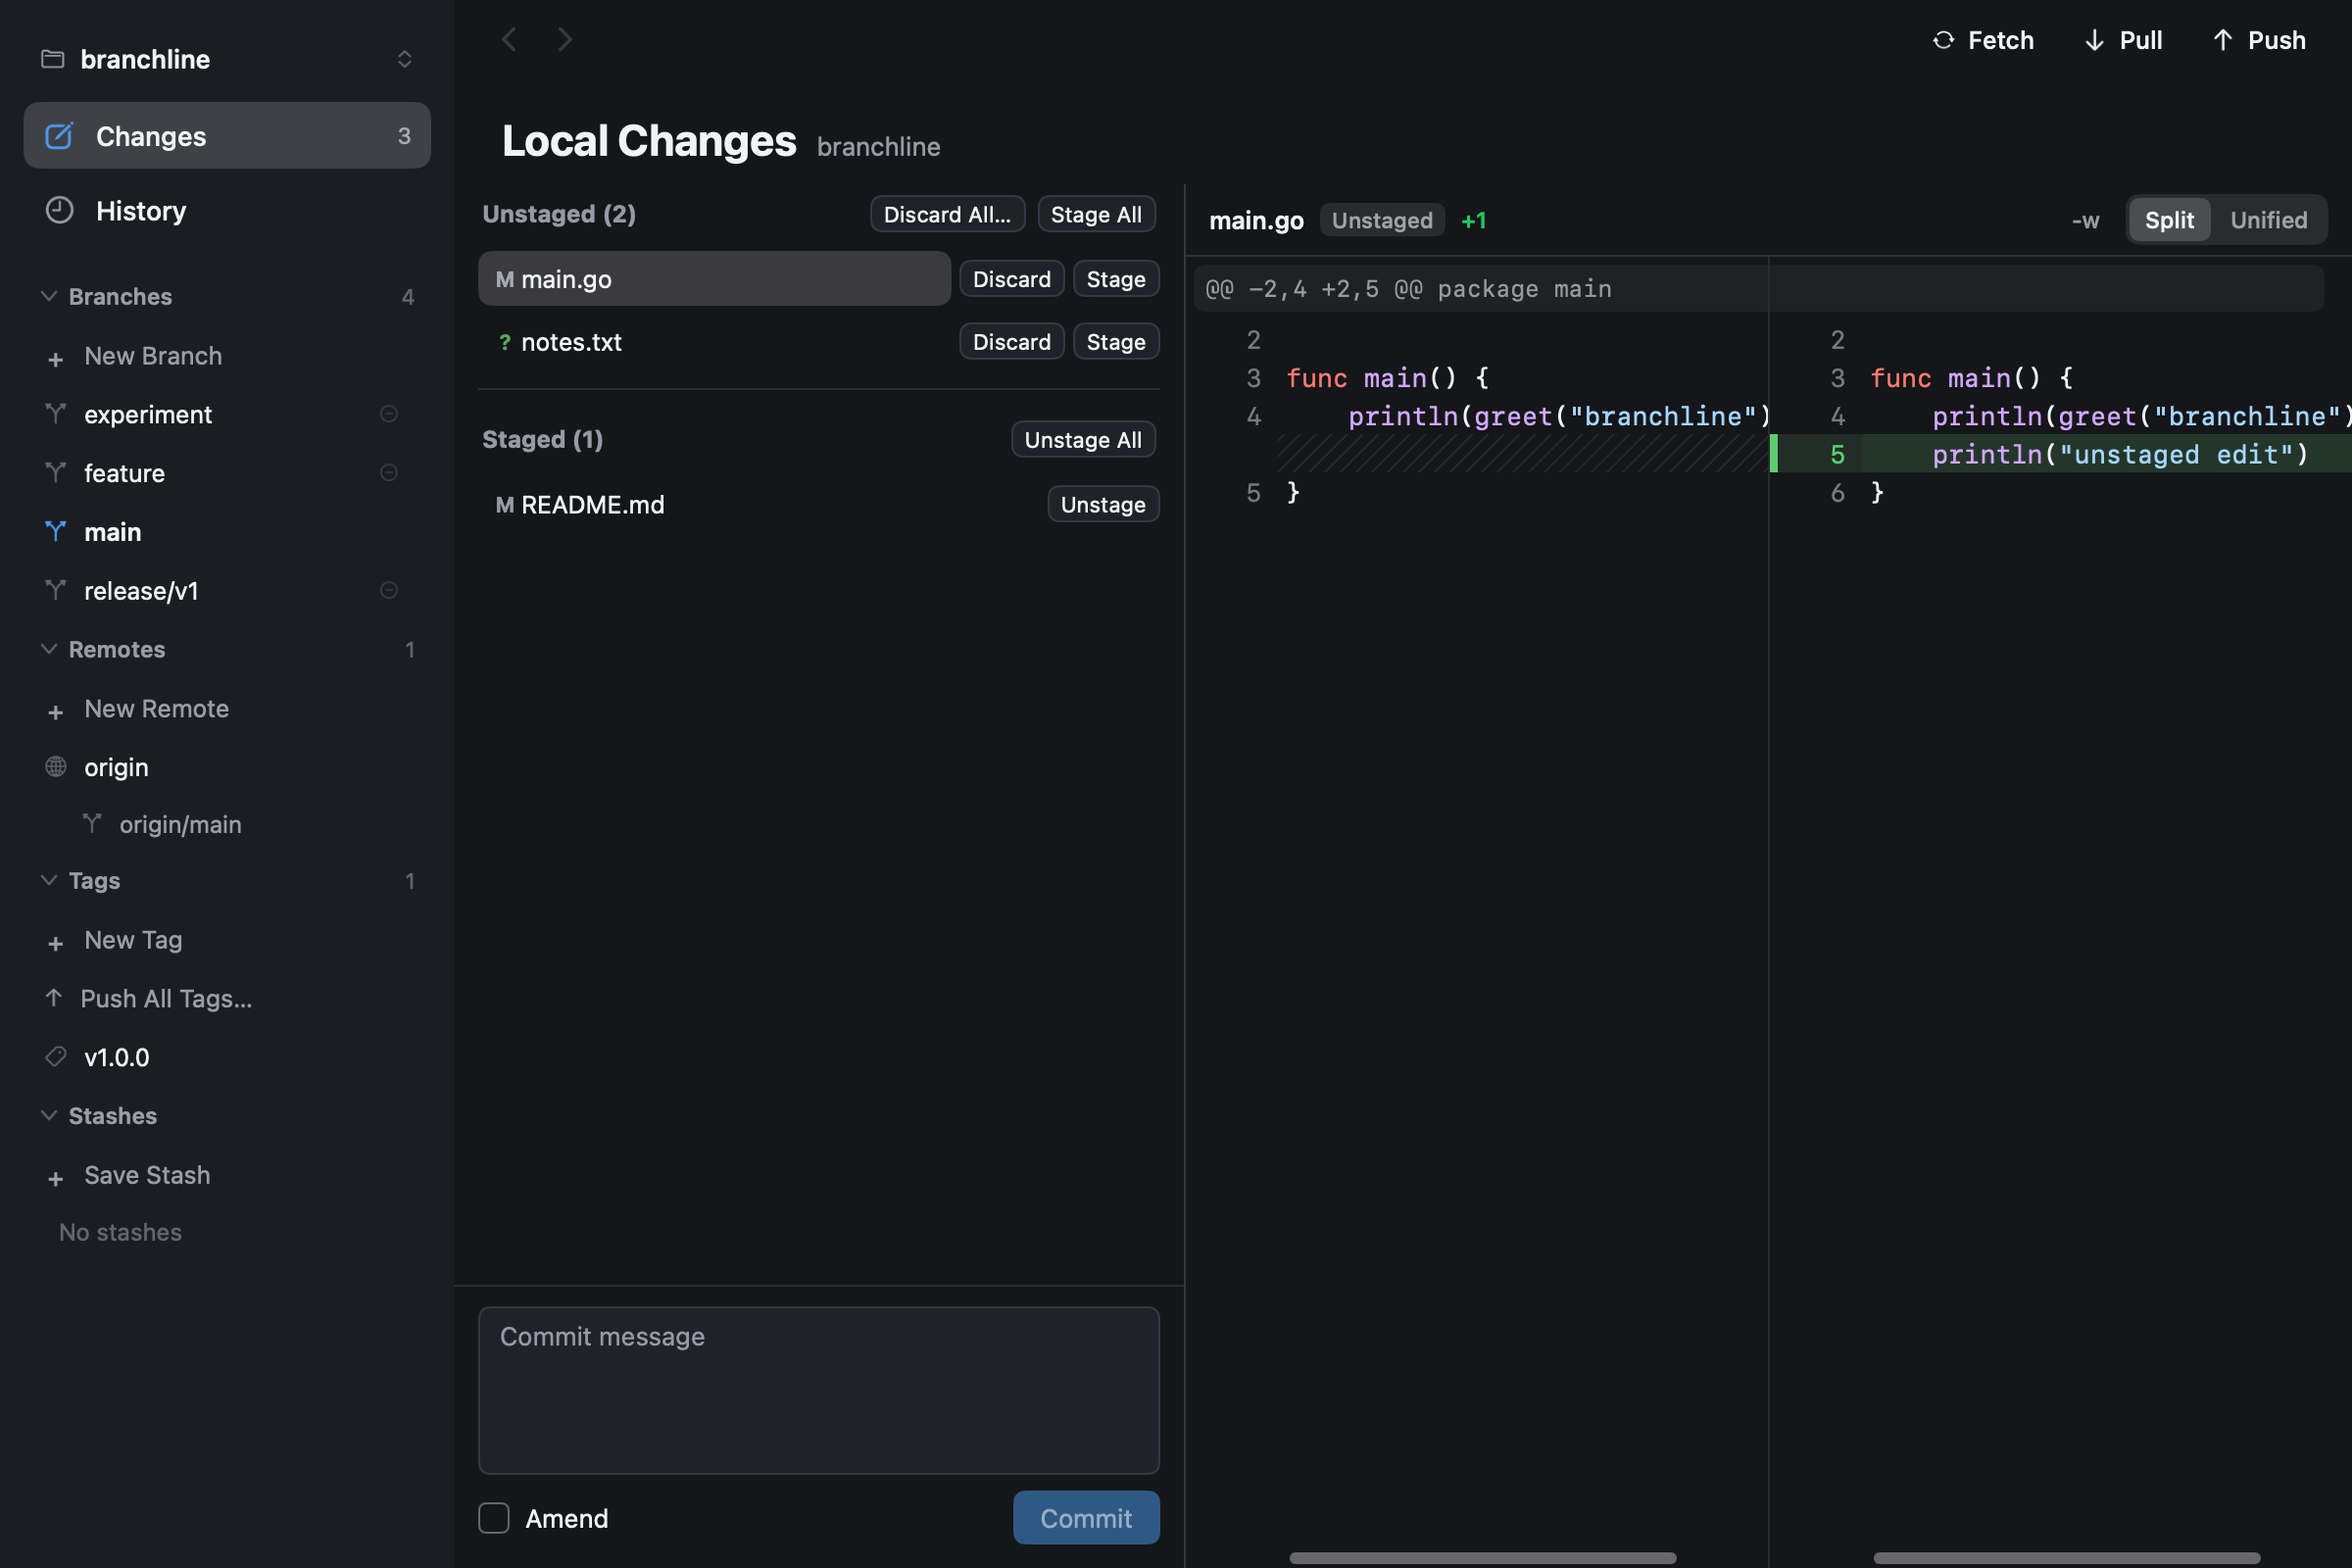
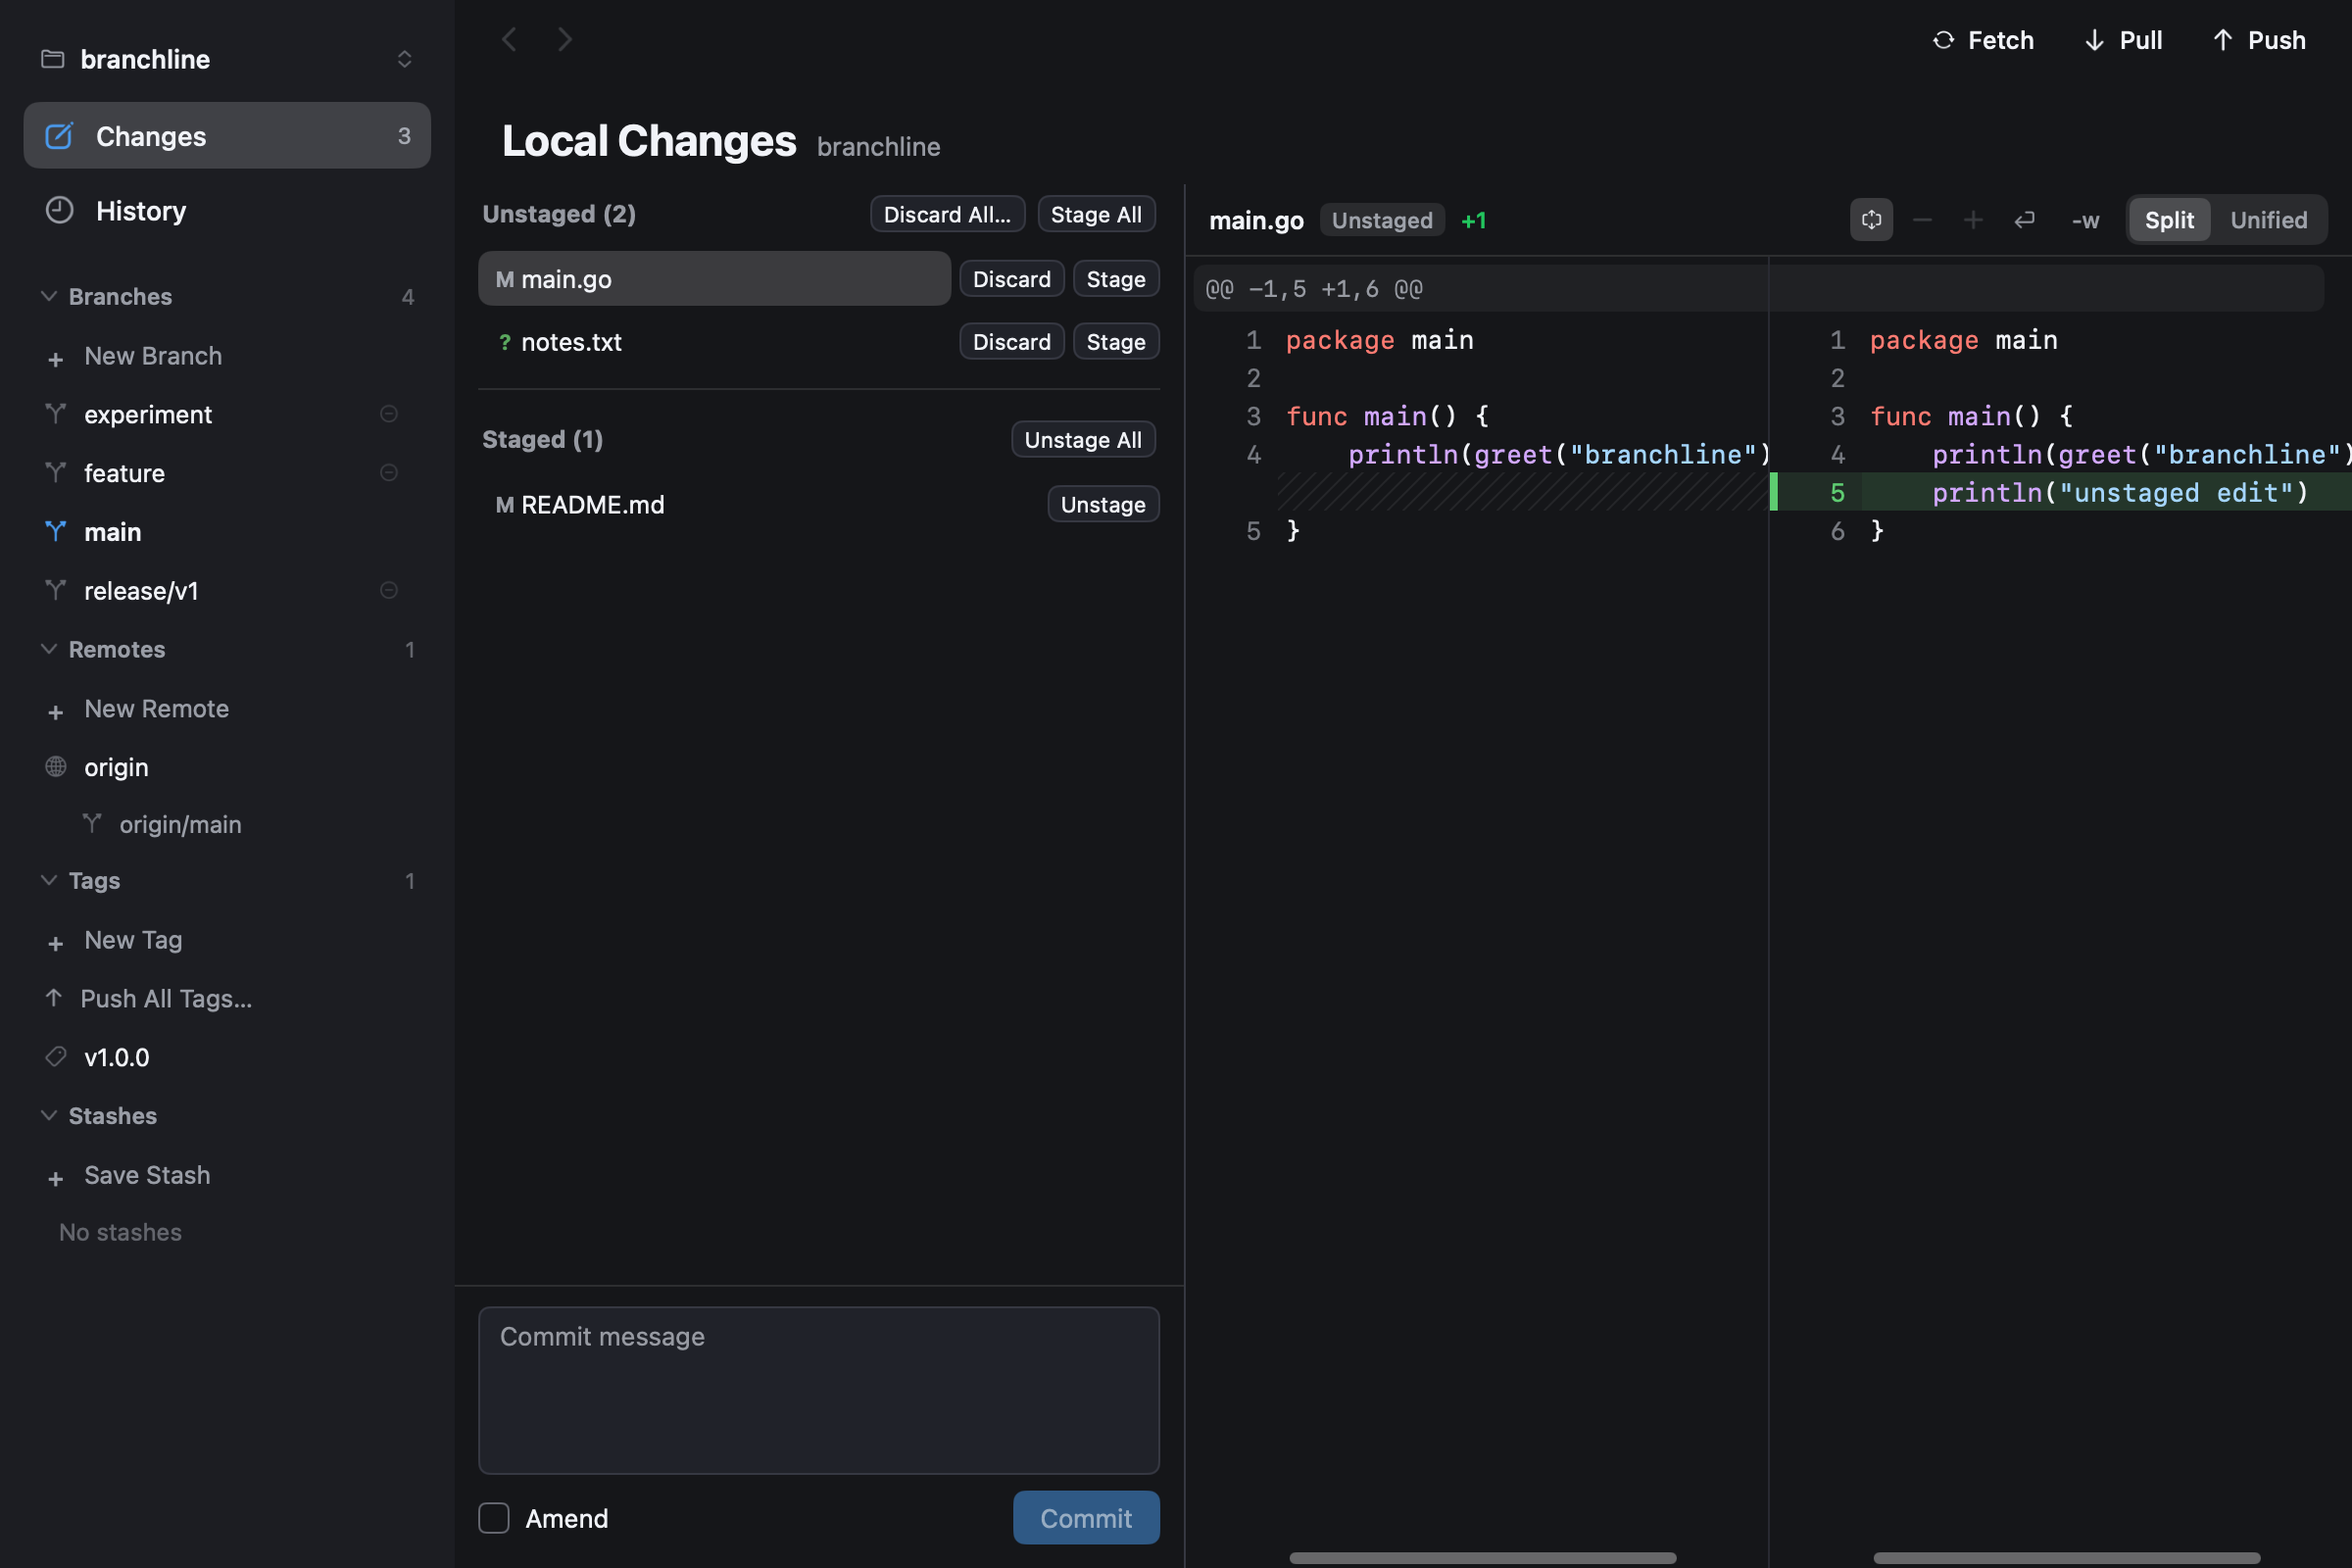
feat(diff): hide the toolbar buttons until a diff is selected
The toolbar choices edit what a diff shows, so the empty header keeps
the quiet placeholder it has always had: the buttons render with the
first selected diff, and the fit measurement follows them. Pages whose
screenshot states never select a file keep their baselines byte for byte.

Changed region(s): [[0.5312, 0.1875, 1.0, 0.3438], [0.7812, 0.125, 0.8125, 0.1562]]

diff --git a/internal/app/ui_diff.go b/internal/app/ui_diff.go
@@ -453,20 +453,24 @@ func diffHeaderLevelFor(avail, controls, statsExtra, badgeExtra float32) int {
 
 // diffHeaderLevel measures the header's fixed content in the fonts it
 // renders with and picks the level fitting avail. The controls' width is
-// the toolbar's icon buttons, the -w button and the Split/Unified capsule
-// with its own padding and gap; the extras include the row gap each
-// optional item adds beside its own width.
-func diffHeaderLevel(c *ui.Context, avail float32, badge string, statsShown bool, added, deleted int) int {
+// the toolbar's icon buttons while a diff is selected, the -w button and
+// the Split/Unified capsule with its own padding and gap; the extras
+// include the row gap each optional item adds beside its own width.
+func diffHeaderLevel(c *ui.Context, avail float32, badge string, statsShown bool, added, deleted int, tools bool) int {
 	measure := func(text string, size float32, weight int) float32 {
 		w, _ := c.MeasureText(0, ui.Span{Text: text, Size: size, Weight: weight})
 		return w
 	}
-	controls := diffToolbarGroupWidth() +
-		measure("-w", 11.5, 500) + 10 +
+	gaps := float32(3 * 8) // row gaps of the items that always render
+	controls := measure("-w", 11.5, 500) + 10 +
 		measure("Split", 11.5, 500) + 16 +
 		measure("Unified", 11.5, 500) + 16 +
-		4 + 2 + // capsule padding and inner gap
-		4*8 // row gaps of the five items that always render
+		4 + 2 // capsule padding and inner gap
+	if tools {
+		controls += diffToolbarGroupWidth()
+		gaps += 8
+	}
+	controls += gaps
 	statsExtra := float32(0)
 	if statsShown {
 		if added > 0 {
@@ -503,9 +507,13 @@ func (d *diffPanel) header(c *ui.Context, s *repoSession, scope string, p palett
 	}
 	badge := d.req.badge()
 	statsShown := d.state != nil && (d.added > 0 || d.deleted > 0)
-	level := diffHeaderLevel(c, avail, badge, statsShown, d.added, d.deleted)
+	// The toolbar choices edit what a diff shows, so they render only while
+	// a diff is selected: the empty header stays the quiet placeholder the
+	// pages without a selection have always shown.
+	tools := d.req.valid()
+	level := diffHeaderLevel(c, avail, badge, statsShown, d.added, d.deleted, tools)
 
-	if level == diffHeaderCompact {
+	if level == diffHeaderCompact && tools {
 		// Two rows: the title, badge and layout choice keep the first, and
 		// the content choices — the toolbar buttons and -w — move to the
 		// second. At the minimum window width one row can no longer hold
@@ -545,7 +553,9 @@ func (d *diffPanel) header(c *ui.Context, s *repoSession, scope string, p palett
 
 				ui.Spacer(c)
 
-				d.diffOptionsGroup(c, s, scope, p)
+				if tools {
+					d.diffOptionsGroup(c, s, scope, p)
+				}
 
 				d.ignoreSpaceBtn(c, s, scope, p)
 
